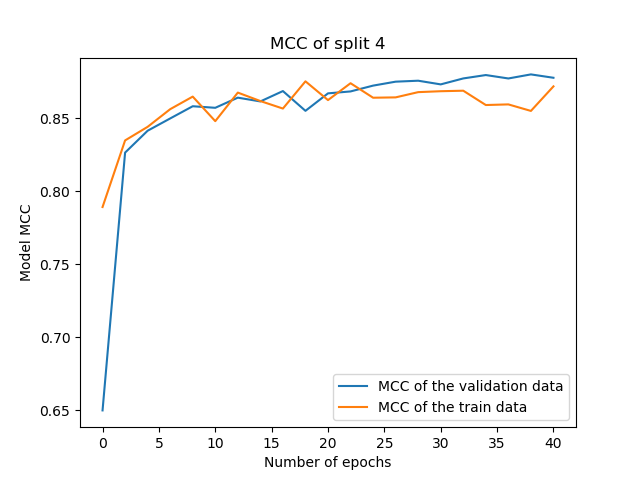
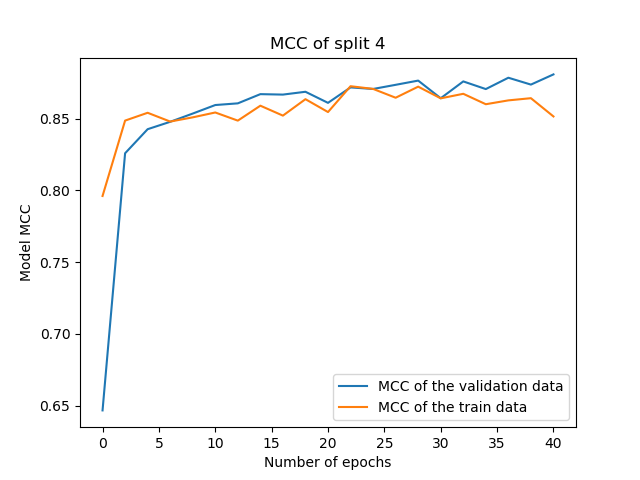
Fixed accuracy over batch

diff --git a/main.py b/main.py
@@ -68,17 +68,14 @@ def main(split):
     validation_dataset = CustomDataset(validation_data,validation_labels)
     train_loader = DataLoader(train_dataset, **params)
     validation_loader = DataLoader(validation_dataset, **params)
-    if cross_validation and os.path.isfile(root + 'model.pickle') and split != '0':
-        model = torch.load(root + 'model.pickle')
-    else:    
-        model = SimpleCNN()
-        model = model.to(dev)
+    model = SimpleCNN()
+    model = model.to(dev)
     model, out_params = train(model, train_loader, validation_loader, 
                               num_epochs, learning_rate, dev)
     best_val_acc = min(out_params)[3]
     best_epoch = min(out_params)[2]
     create_plts(out_params, split)
-    torch.save(model, root + 'model.pickle')
+    torch.save(model, root + 'model'+split+'.pickle')
     return best_val_acc, best_epoch, out_params
 
 def de_serializeInput(split):    
@@ -194,6 +191,8 @@ def train(model, train_loader, validation_loader, num_epochs, learning_rate, dev
         mcc_train_sum =  []
         loss_train_list = []
         cm_train = 0
+        correct = 0
+        total = 0 
         for i, (train, labels) in enumerate(train_loader):
             # Run the forward pass
             train, labels = train.to(dev), labels.to(dev)
@@ -206,17 +205,18 @@ def train(model, train_loader, validation_loader, num_epochs, learning_rate, dev
             loss.backward()
             optimizer.step()
     
-            # Track the accuracy, mcc and cm
-            total = labels.size(0)* labels.size(1)
-            _, predicted = torch.max(outputs.data, 1)
-            predicted = predicted.squeeze_()
-            correct = (predicted == labels).sum().item()           
-            if (epoch%printafterepoch) == 0:
+            # Track the accuracy, mcc and cm                    
+            if (epoch%printafterepoch) == 0: 
+                total += labels.size(0)* labels.size(1)
+                _, predicted = torch.max(outputs.data, 1)
+                predicted = predicted.squeeze_()
+                correct += (predicted == labels).sum().item()              
                 mcc_train, cm = calcMCCbatch(labels, predicted)
                 cm_train += cm
                 mcc_train_sum.append(mcc_train)
                 loss_train_list.append(loss.item())  
-            # and print the results
+                
+        # and print the results
         if (epoch%printafterepoch) == 0:
             acc_train = (correct / total)*100
             loss_ave = sum(loss_train_list)/len(loss_train_list)

diff --git a/CNN.py b/CNN.py
@@ -13,11 +13,9 @@ class SimpleCNN(nn.Module):
     def __init__(self):
         super(SimpleCNN, self).__init__()
         self.layer1 = nn.Sequential(
-            nn.Conv2d(1024, 4, kernel_size=(5,1),  padding = (2,0)),
-            nn.ReLU()) 
+            nn.Conv2d(1024, 4, kernel_size=(5,1),  padding = (2,0))) 
         self.layer2 = nn.Sequential(
-            nn.Conv2d(100, 4, kernel_size=(3,1),  padding=(1,0)),
-            nn.ReLU())
+            nn.Conv2d(100, 4, kernel_size=(3,1),  padding=(1,0)))
         self.fc1 = nn.Linear(1, 350)
         self.fc2 = nn.Linear(350, 6)
     
